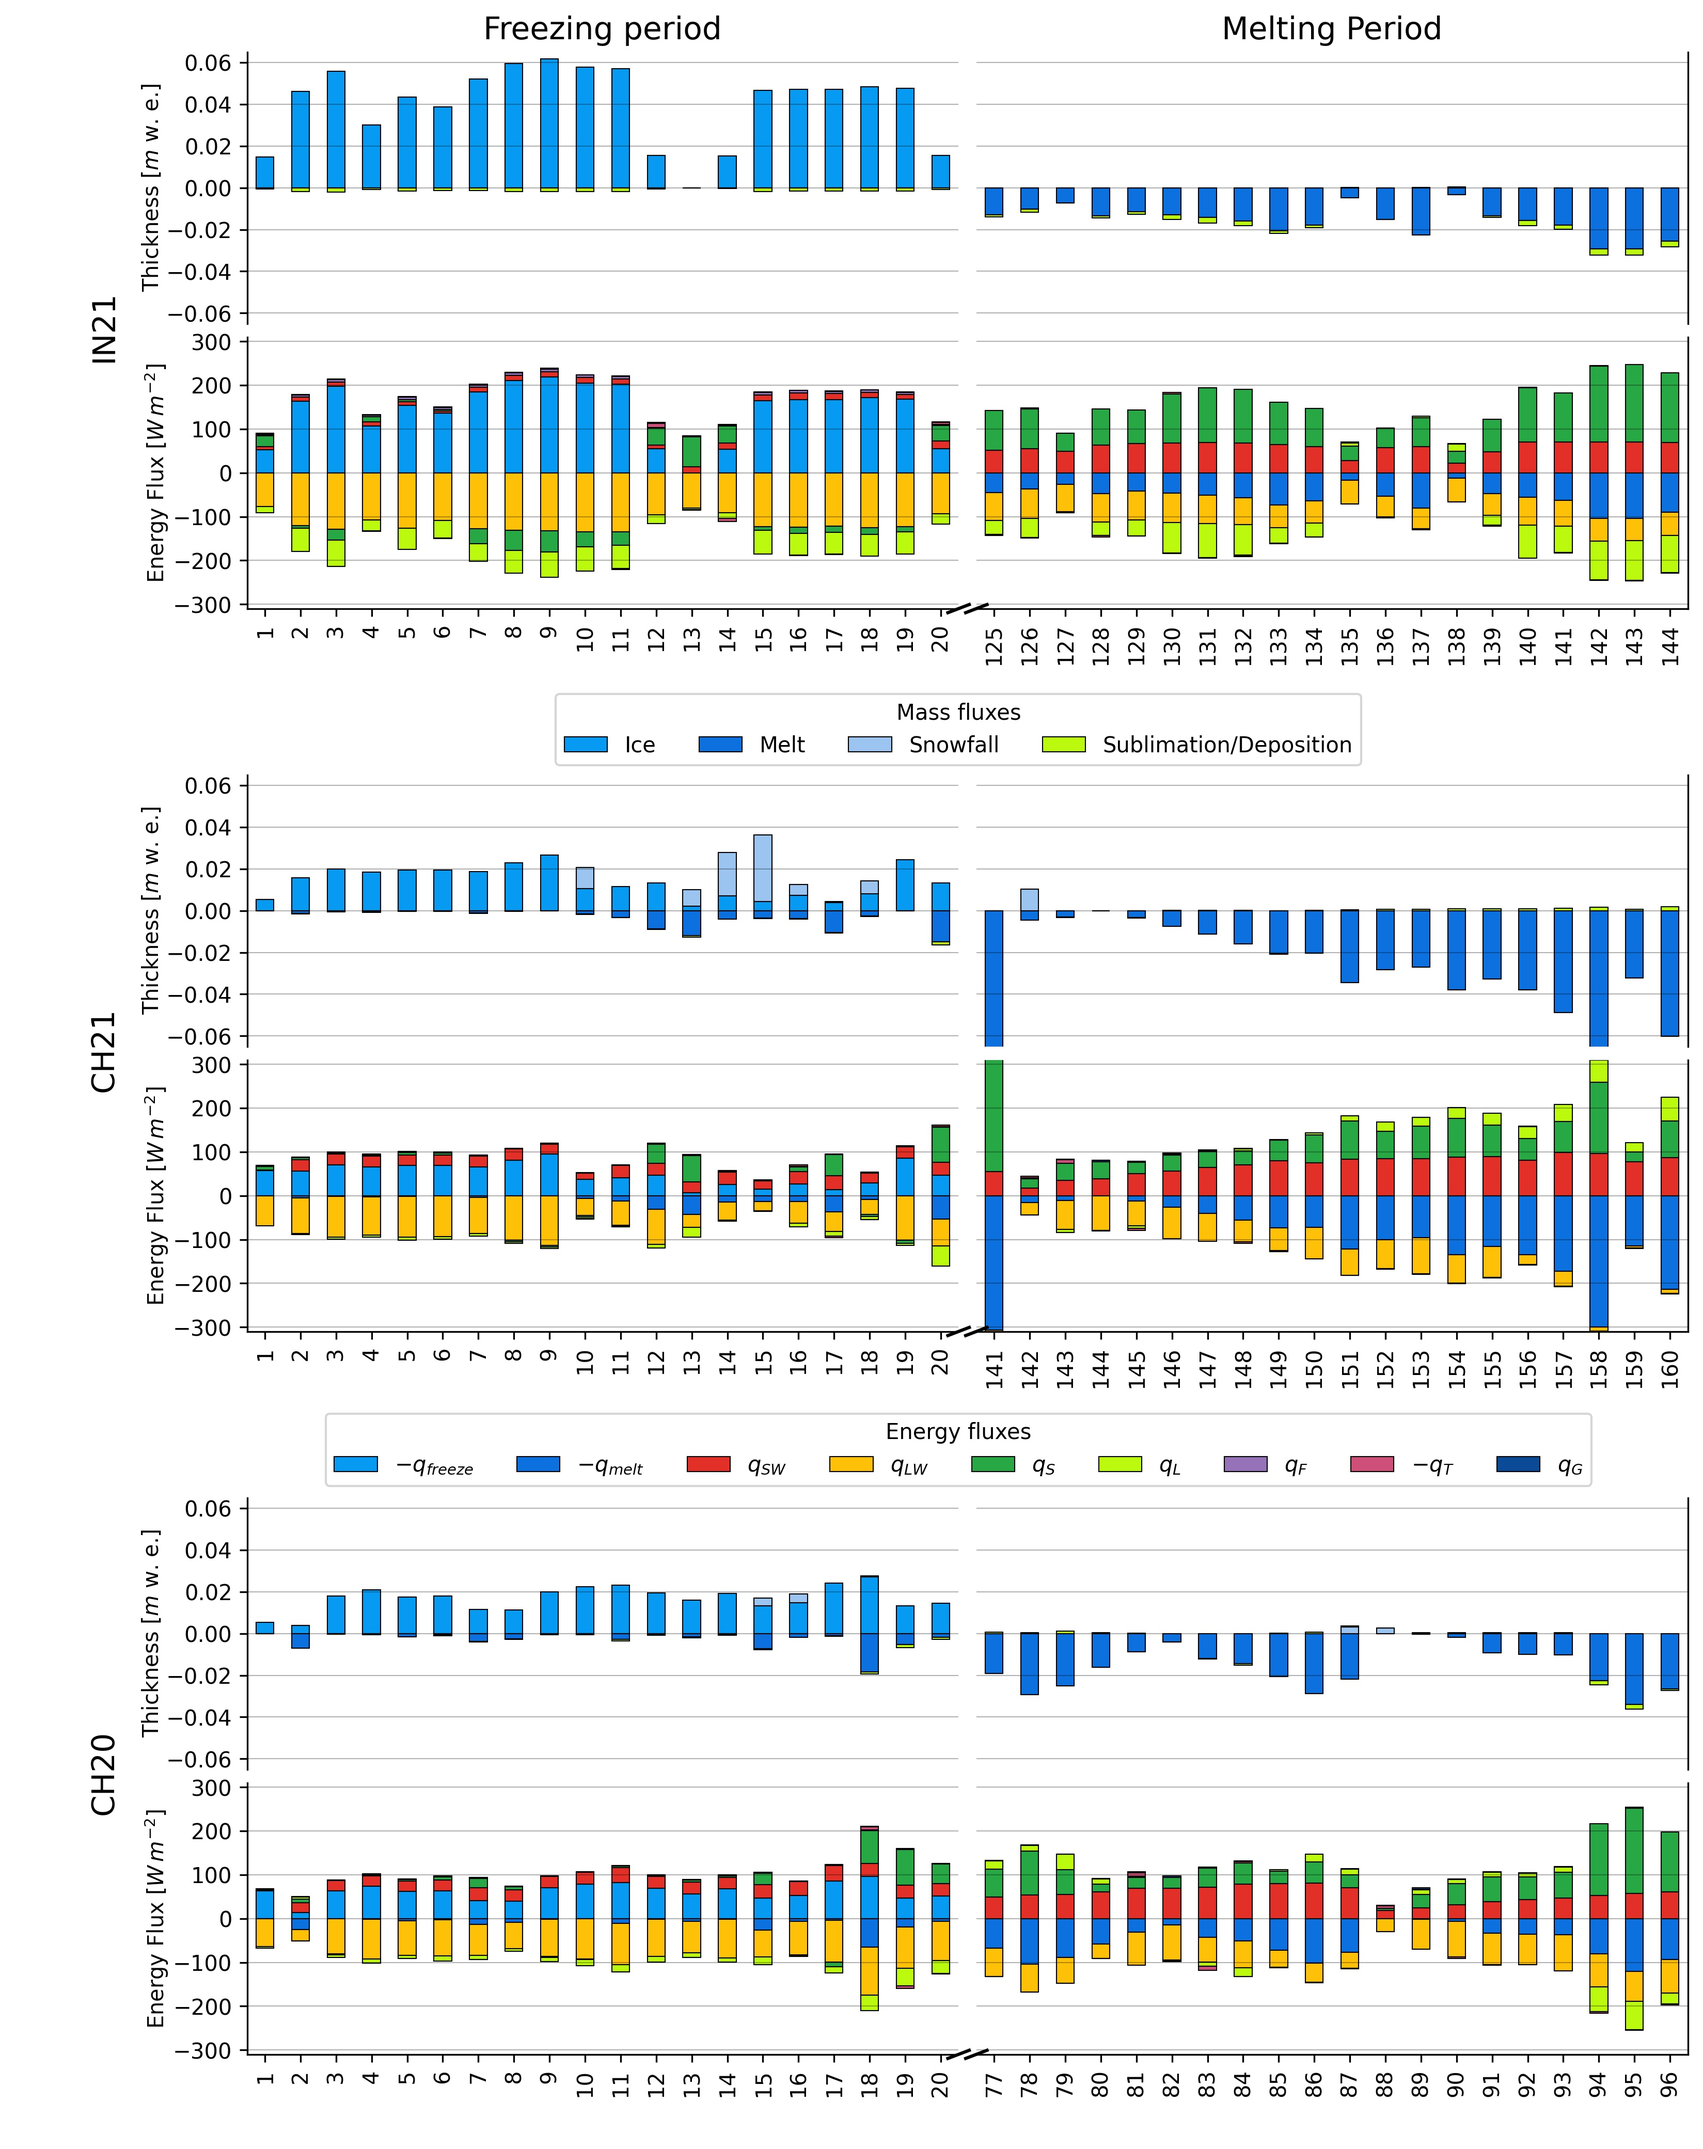
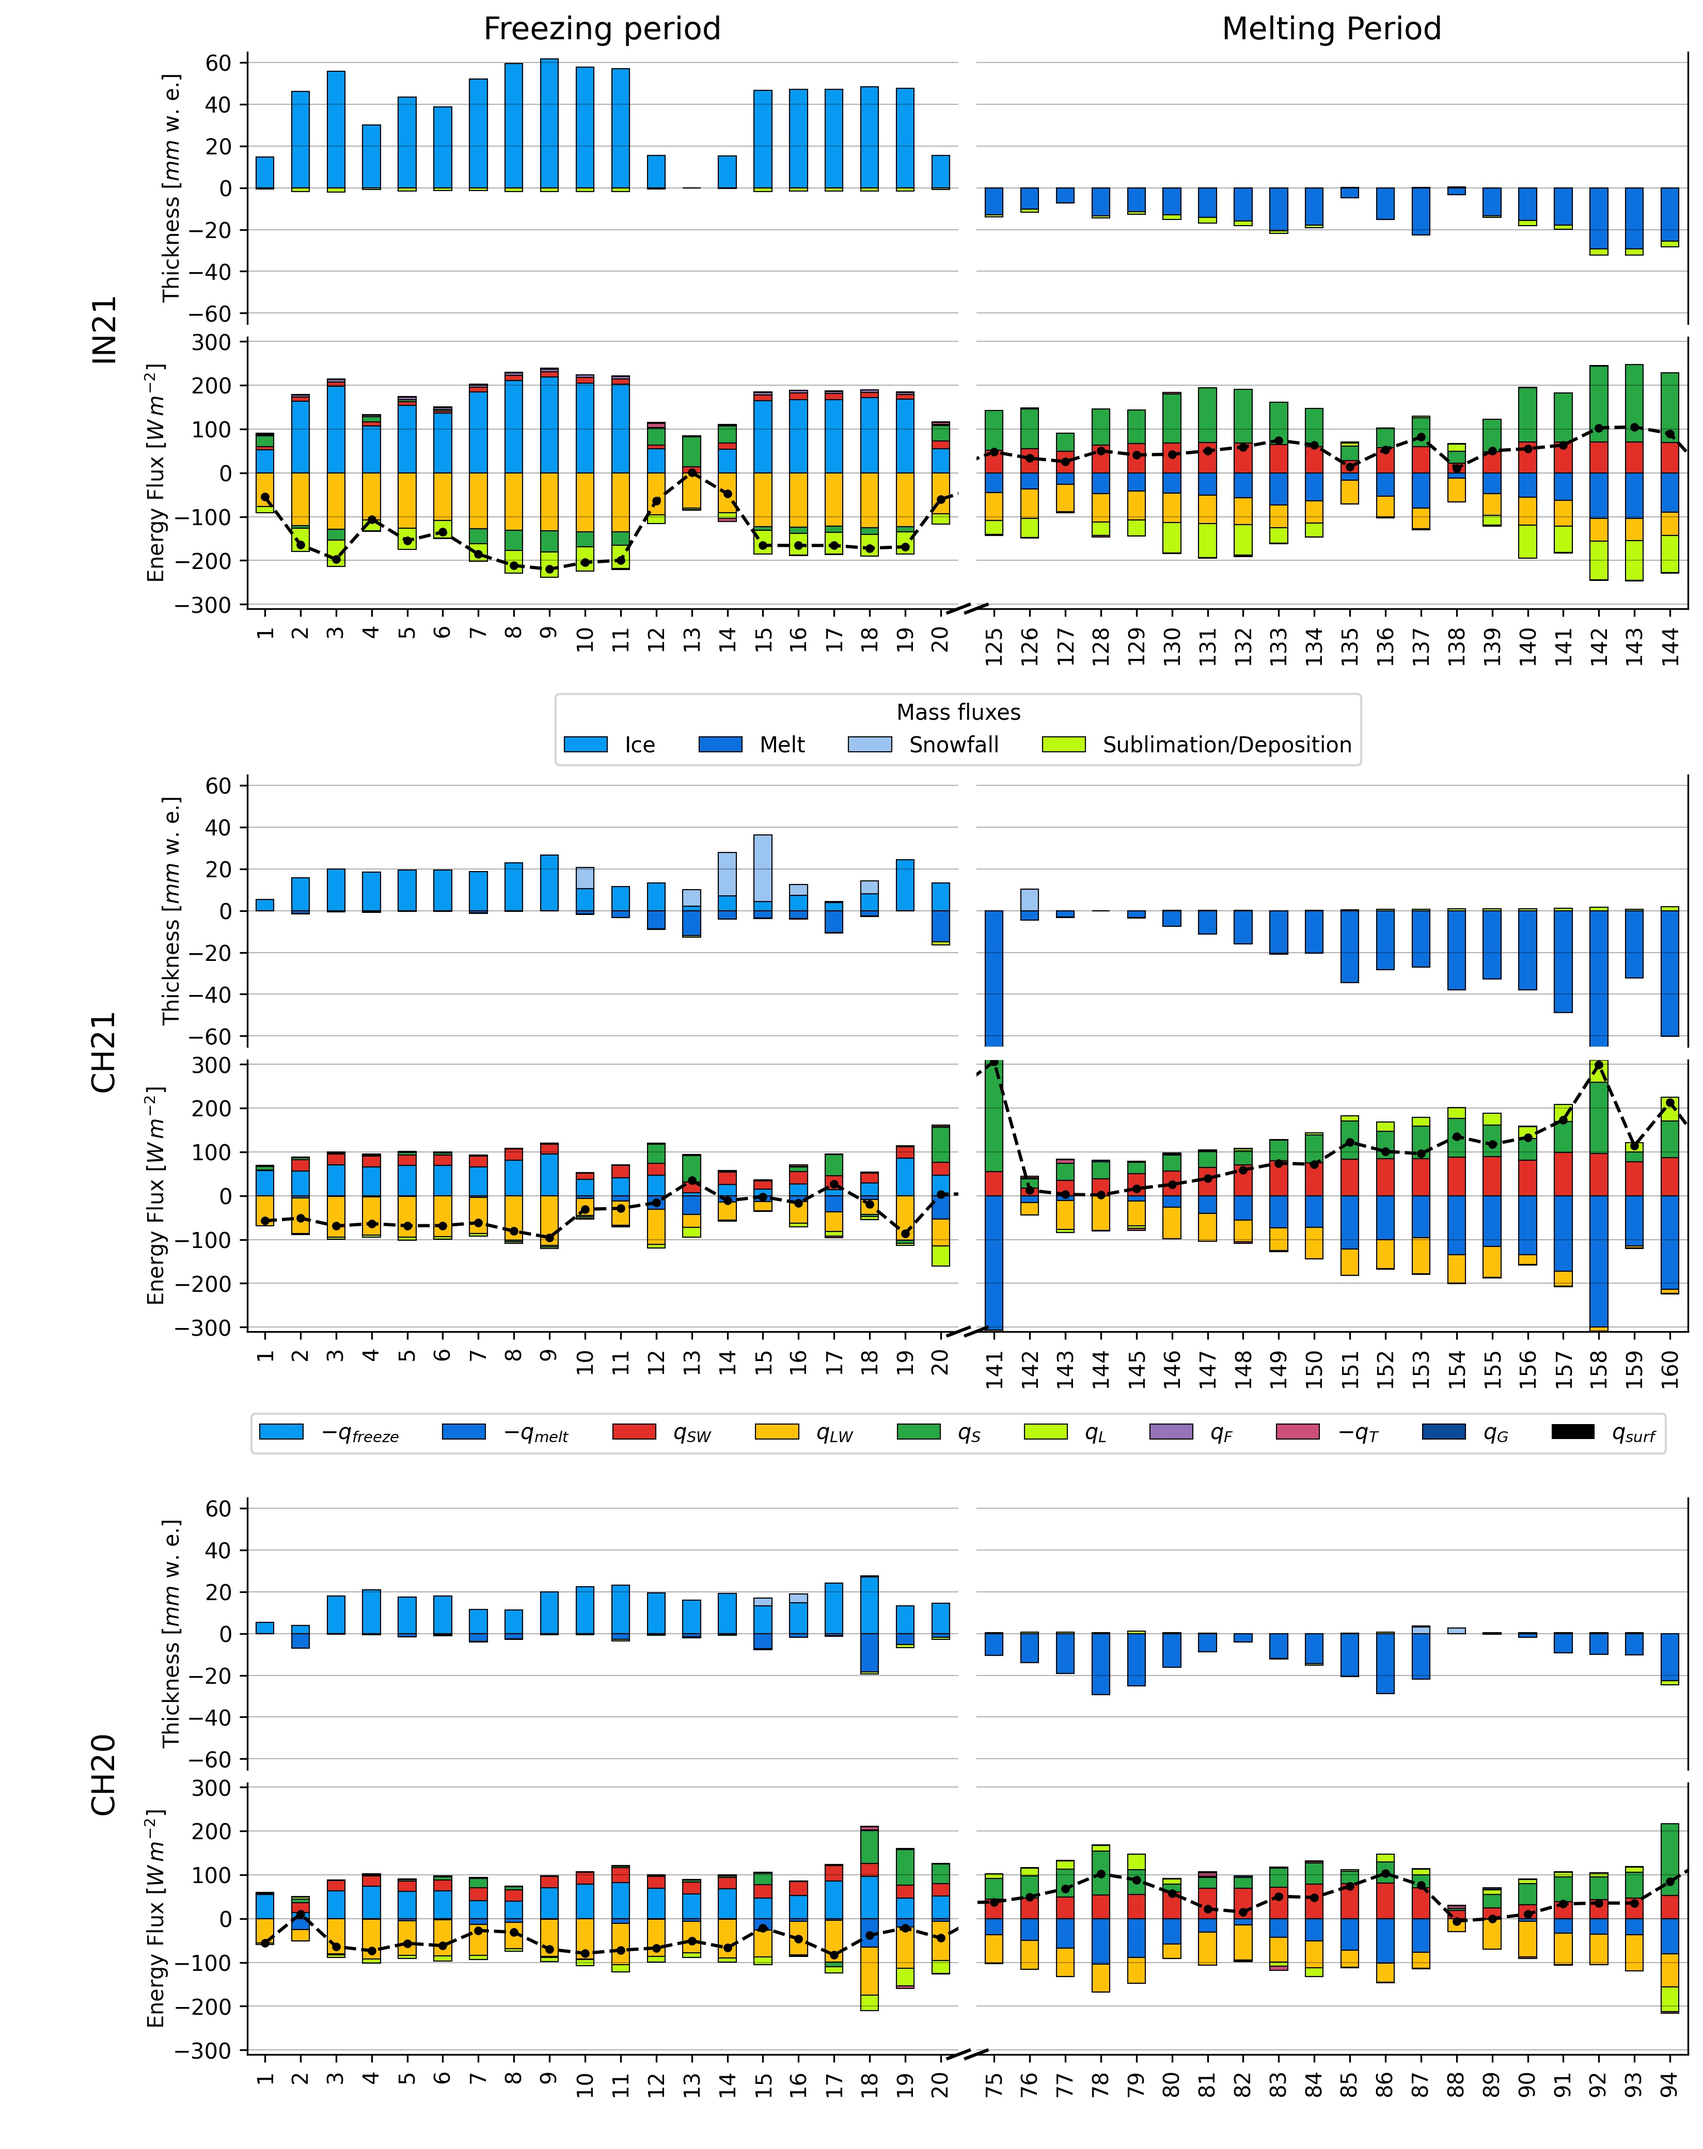
Update Fig

diff --git a/src/utils/energy_bal_plot.py b/src/utils/energy_bal_plot.py
@@ -22,6 +22,19 @@ from src.utils.settings import config
 from src.models.methods.metadata import get_parameter_metadata
 from src.models.icestupaClass import Icestupa
 
+def add_patch(legend):
+    from matplotlib.patches import Patch
+    ax = legend.axes
+
+    handles, labels = ax.get_legend_handles_labels()
+    handles.append(Patch(facecolor='k'))
+    labels.append("$q_{surf}$")
+
+    legend._legend_box = None
+    legend._init_legend_box(handles, labels)
+    legend._set_loc(legend._loc)
+    legend.set_title(legend.get_title().get_text())
+
 if __name__ == "__main__":
     locations = ["gangles21", "guttannen21", "guttannen20"]
     # locations = ['guttannen21',  'gangles21']
@@ -48,6 +61,7 @@ if __name__ == "__main__":
         SITE, FOLDER = config(location)
         icestupa = Icestupa(location)
         icestupa.read_output()
+        icestupa.df = icestupa.df[:icestupa.last_hour]
 
         icestupa.df = icestupa.df.rename(
             {
@@ -121,6 +135,7 @@ if __name__ == "__main__":
                 "Sublimation/Deposition",
             ]
         ]
+        y2 = y2.mul(1000)
 
         dfd = icestupa.df.set_index("When").resample("D").mean().reset_index()
         # dfd["When"] = dfd["When"].dt.strftime("%b %d")
@@ -174,6 +189,8 @@ if __name__ == "__main__":
                 ],
                 ax=ax[1, j],
             )
+            ax[1, j].plot(dfd["$q_{surf}$"],'--k.')
+
         for i in range(2):
             if ctr == 0:
                 ax[0, 0].title.set_text("Freezing period")
@@ -199,8 +216,8 @@ if __name__ == "__main__":
                     else:
                         ax[i, j].plot((-d, d), (-d, +d), **kwargs)  # top-right diagonal
                 else:
-                    ax[i, j].set_ylim(-0.065, 0.065)
-                    ax[i, j].set_ylabel("Thickness [$m$ w. e.]")
+                    ax[i, j].set_ylim(-65, 65)
+                    ax[i, j].set_ylabel("Thickness [$mm$ w. e.]")
                     ax[i, j].spines["bottom"].set_visible(False)
                     ax[i, j].tick_params(bottom=False)
                     ax[i, j].tick_params(labelbottom=False)
@@ -233,9 +250,10 @@ if __name__ == "__main__":
     ax[0, 0].legend(
         loc="upper center", bbox_to_anchor=(1, 4), ncol=5, title="Mass fluxes"
     )
-    ax[1, 0].legend(
-        loc="upper center", bbox_to_anchor=(1, 2.4), ncol=9, title="Energy fluxes"
+    lgd = ax[1, 0].legend(
+        loc="upper center", bbox_to_anchor=(1, 2.4), ncol=10, title="Energy fluxes"
     )
+    add_patch(lgd)
     plt.savefig(
         "data/paper/mass_energy_bal.jpg",
         dpi=300,
